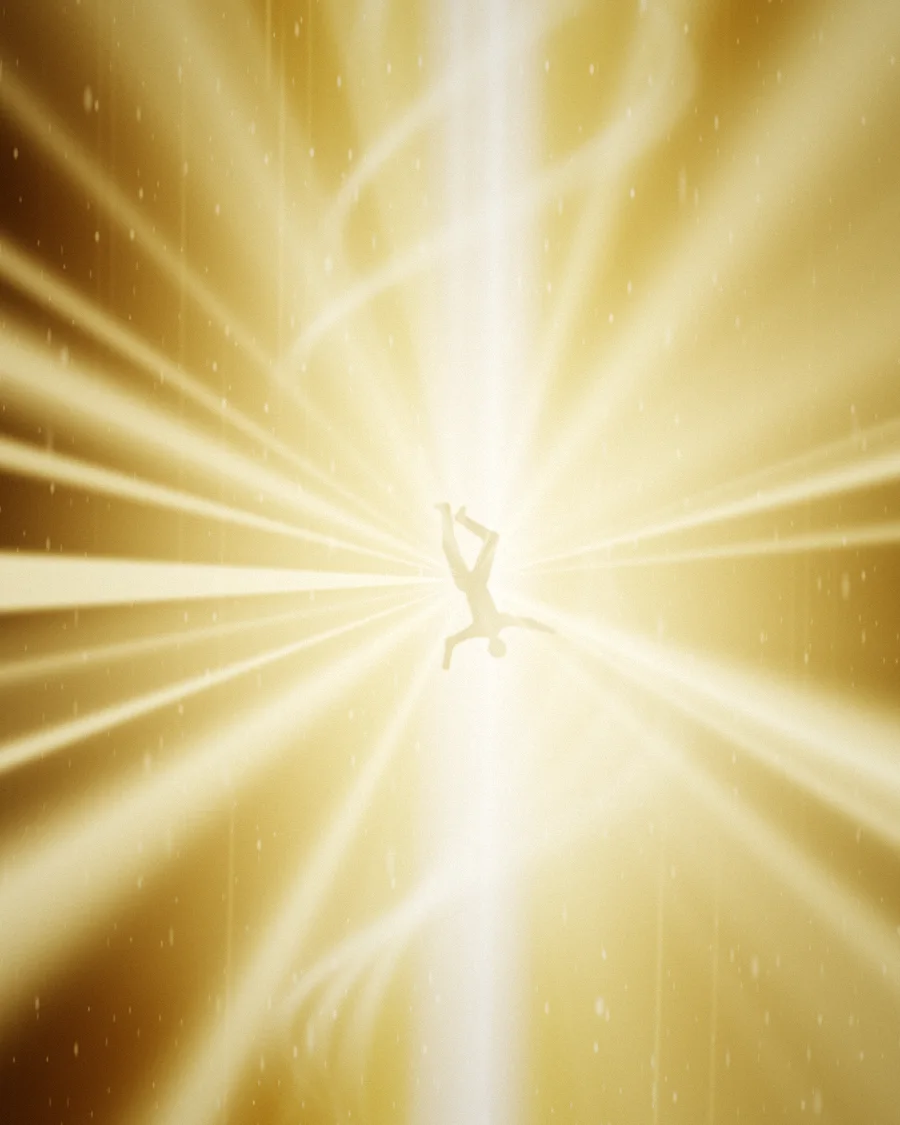
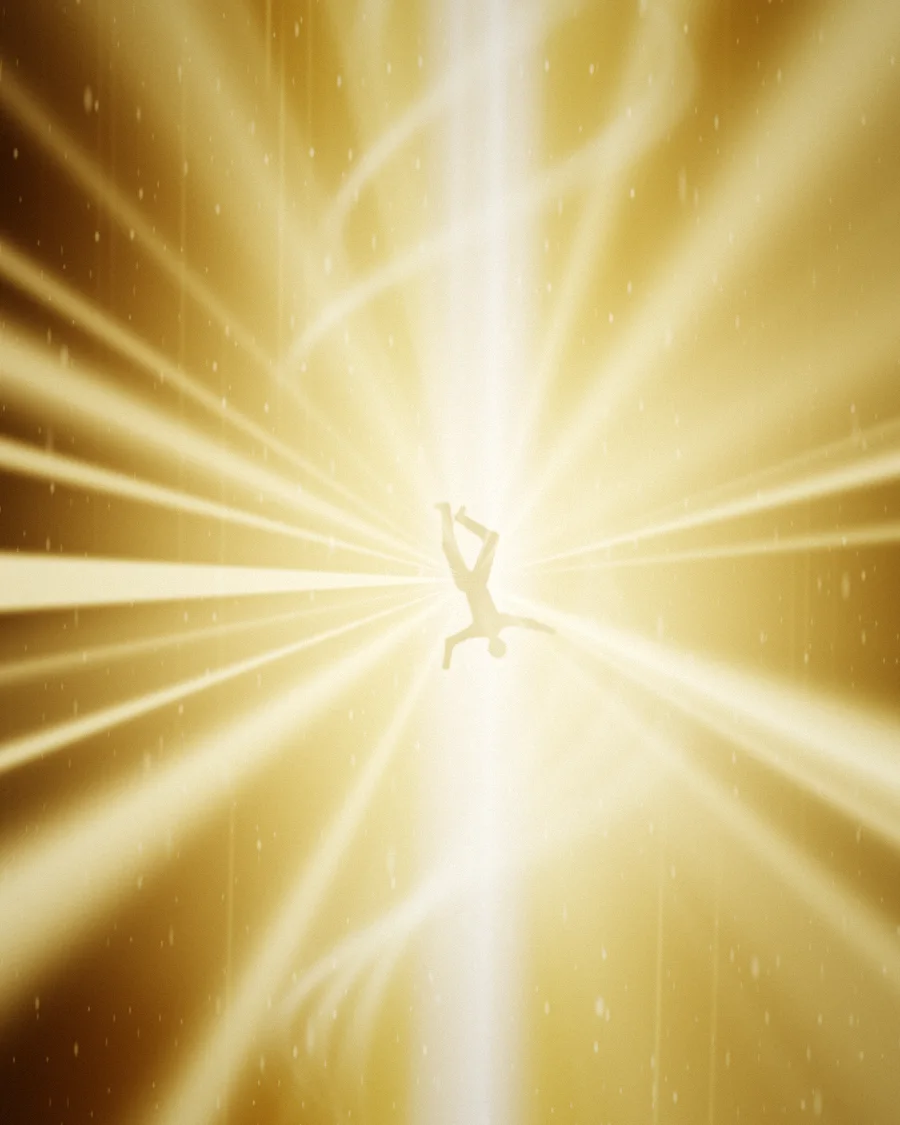
Match the reel more closely and fix custom properties
- el(): set CSS custom properties with setProperty, so per-project
  colours (gold / orange / bone / blue) and tile sizes now apply.
- Leap: sharper god rays with darker gaps during the burst.
- Noise: shot framed on the circle, sides fall into darkness; larger
  burning figure.
- RISE: bigger letters filling the frame.
- Portal: cloud banks rise towards the edges like wings, the slit
  appears inside a large fixed halo arch before the door widens,
  lightning hugs the door frame.
- Gallery label stays above tiles in transit; reduced-motion users
  get no impact shake or field sway.
- Re-rendered stills.

Claude-Session: https://claude.ai/code/session_01P1Tk2mZGYu1PUw1vNPuokW

diff --git a/src/scenes/portal.js b/src/scenes/portal.js
@@ -69,9 +69,9 @@ export function createPortal(ctx) {
         scene: 'portal',
         rect: { x: 0, y: 0, w: vw, h: vh },
         uniforms: {
-          uOpen: lerp(0, 0.3, smoothRange(p, 0.05, 0.18)) + lerp(0, 0.7, smoothRange(p, 0.18, 0.34)),
-          uHalo: smoothRange(p, 0.22, 0.32) * (1 - smoothRange(p, 0.46, 0.58)),
-          uFlare: smoothRange(p, 0.25, 0.38) * (1 - 0.8 * smoothRange(p, 0.46, 0.62)),
+          uOpen: lerp(0, 0.3, smoothRange(p, 0.05, 0.17)) + lerp(0, 0.7, smoothRange(p, 0.3, 0.42)),
+          uHalo: smoothRange(p, 0.17, 0.27) * (1 - smoothRange(p, 0.44, 0.54)),
+          uFlare: smoothRange(p, 0.24, 0.36) * (1 - 0.8 * smoothRange(p, 0.46, 0.62)),
           uBolt: smoothRange(p, 0.4, 0.76),
           uWalk: walk,
           uFigure: smoothRange(p, 0.38, 0.43),

diff --git a/src/lib/util.js b/src/lib/util.js
@@ -33,7 +33,10 @@ export function el(tag, attrs = {}, children = []) {
     if (v === undefined || v === null || v === false) continue
     if (k === 'html') node.innerHTML = v
     else if (k === 'text') node.textContent = v
-    else if (k === 'style' && typeof v === 'object') Object.assign(node.style, v)
+    else if (k === 'style' && typeof v === 'object') {
+      // custom properties (--x) only work through setProperty
+      for (const p in v) p.startsWith('--') ? node.style.setProperty(p, v[p]) : (node.style[p] = v[p])
+    }
     else if (k.startsWith('on') && typeof v === 'function') node.addEventListener(k.slice(2), v)
     else node.setAttribute(k, v === true ? '' : v)
   }

diff --git a/src/styles/main.css b/src/styles/main.css
@@ -775,7 +775,7 @@ main {
 }
 .rise-word {
   display: flex;
-  font-size: clamp(110px, 26vw, 520px);
+  font-size: clamp(110px, 31vw, 620px);
   color: #fff;
   letter-spacing: -0.03em;
   line-height: 0.8;
@@ -833,6 +833,7 @@ main {
 }
 .gallery-card {
   position: absolute;
+  z-index: 1;
   left: 50%;
   top: 50%;
   width: min(30vh, 40vw);
@@ -841,6 +842,7 @@ main {
 }
 .gallery-label {
   position: absolute;
+  z-index: 2;
   left: 50%;
   top: calc(50% + min(19.7vh, 26.4vw) + 18px);
   transform: translateX(-50%);

diff --git a/src/scenes/impact.js b/src/scenes/impact.js
@@ -24,7 +24,7 @@ export function createImpact(ctx) {
       let o = range(p, 0, 0.05)
       // shake right after the hit
       const sk = 1 - range(p, 0.06, 0.22)
-      const amp = p > 0.06 && p < 0.22 ? sk * sk * 16 : 0
+      const amp = p > 0.06 && p < 0.22 && !ctx.reduced ? sk * sk * 16 : 0
       const x = Math.sin(p * 913) * amp
       const y = Math.cos(p * 1187) * amp * 0.6
       // hold, then fall through it

diff --git a/src/scenes/leap.js b/src/scenes/leap.js
@@ -115,7 +115,7 @@ export function createLeap(ctx) {
       // word field
       const fin = smoothRange(p, 0.012, 0.055)
       const fout = 1 - smoothRange(p, 0.8, 0.9)
-      const sway = Math.sin(p * 9) * 1.6
+      const sway = ctx.reduced ? 0 : Math.sin(p * 9) * 1.6
       field.style.transform = `rotate(${sway}deg)`
       for (const w of words) {
         const yv = wrap(w.y - p * TRAVEL * w.s, -WRAP, WRAP)

diff --git a/src/app.js b/src/app.js
@@ -58,6 +58,7 @@ export class App {
       sound: this.sound,
       go: (id) => this.go(id),
       copyEmail: () => this.copyEmail(),
+      reduced: this.reduced,
     })
     this.hud = ctx.hud = new Hud(c, {
       onMenu: () => this.menu.toggle(),
